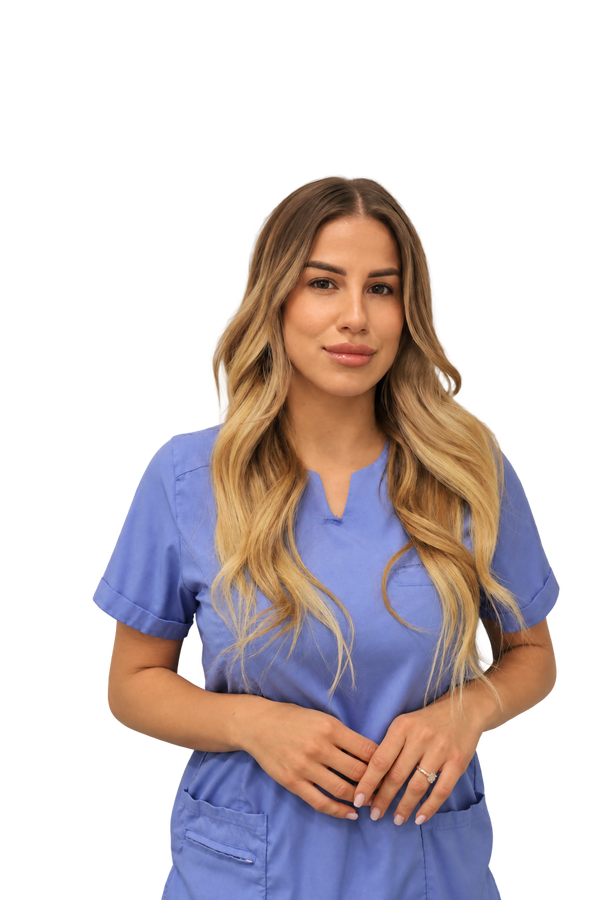
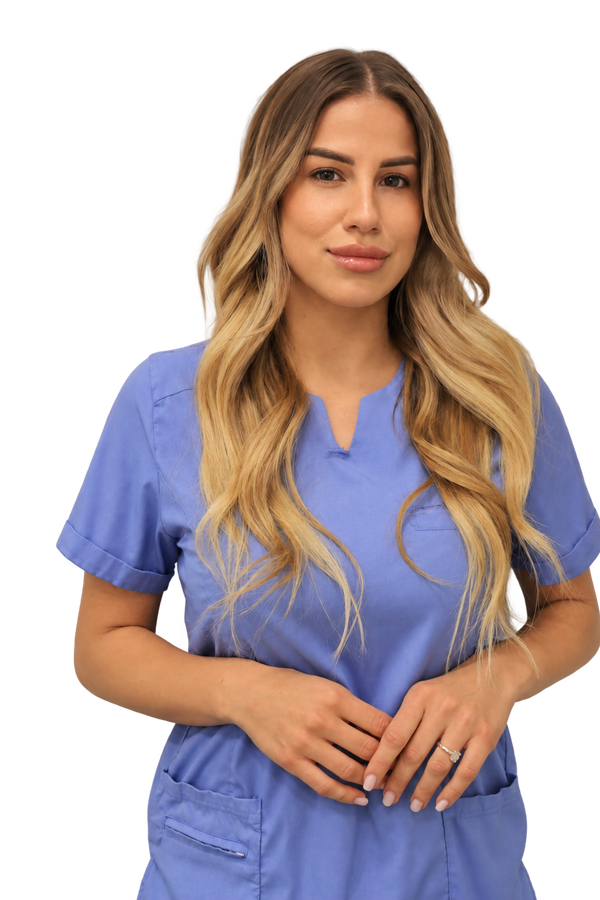
Tim: Ana Ilić kadrirana kao Jovana, temena poravnata
Fotografija isečena tako da teme bude na istoj visini kao kod
Jovane Ivković (bez uvećanja preko CSS-a, koje je na telefonu isključeno),
pa su poravnate i na računaru i na telefonu.

Claude-Session: https://claude.ai/code/session_013pBayNywvEeaBbsxrsKePh

diff --git a/src/shared/data/teamData.js b/src/shared/data/teamData.js
@@ -211,9 +211,9 @@ export const staff = [
     initials: "AI",
     photo: photoAna,
     cutout: true,
-    photoZoom: 1.32,
+    photoZoom: 1.08,
     photoFocus: "center top",
-    photoOrigin: "center 35%",
+    photoOrigin: "top center",
   },
   {
     name: "Jovana Ivković",
